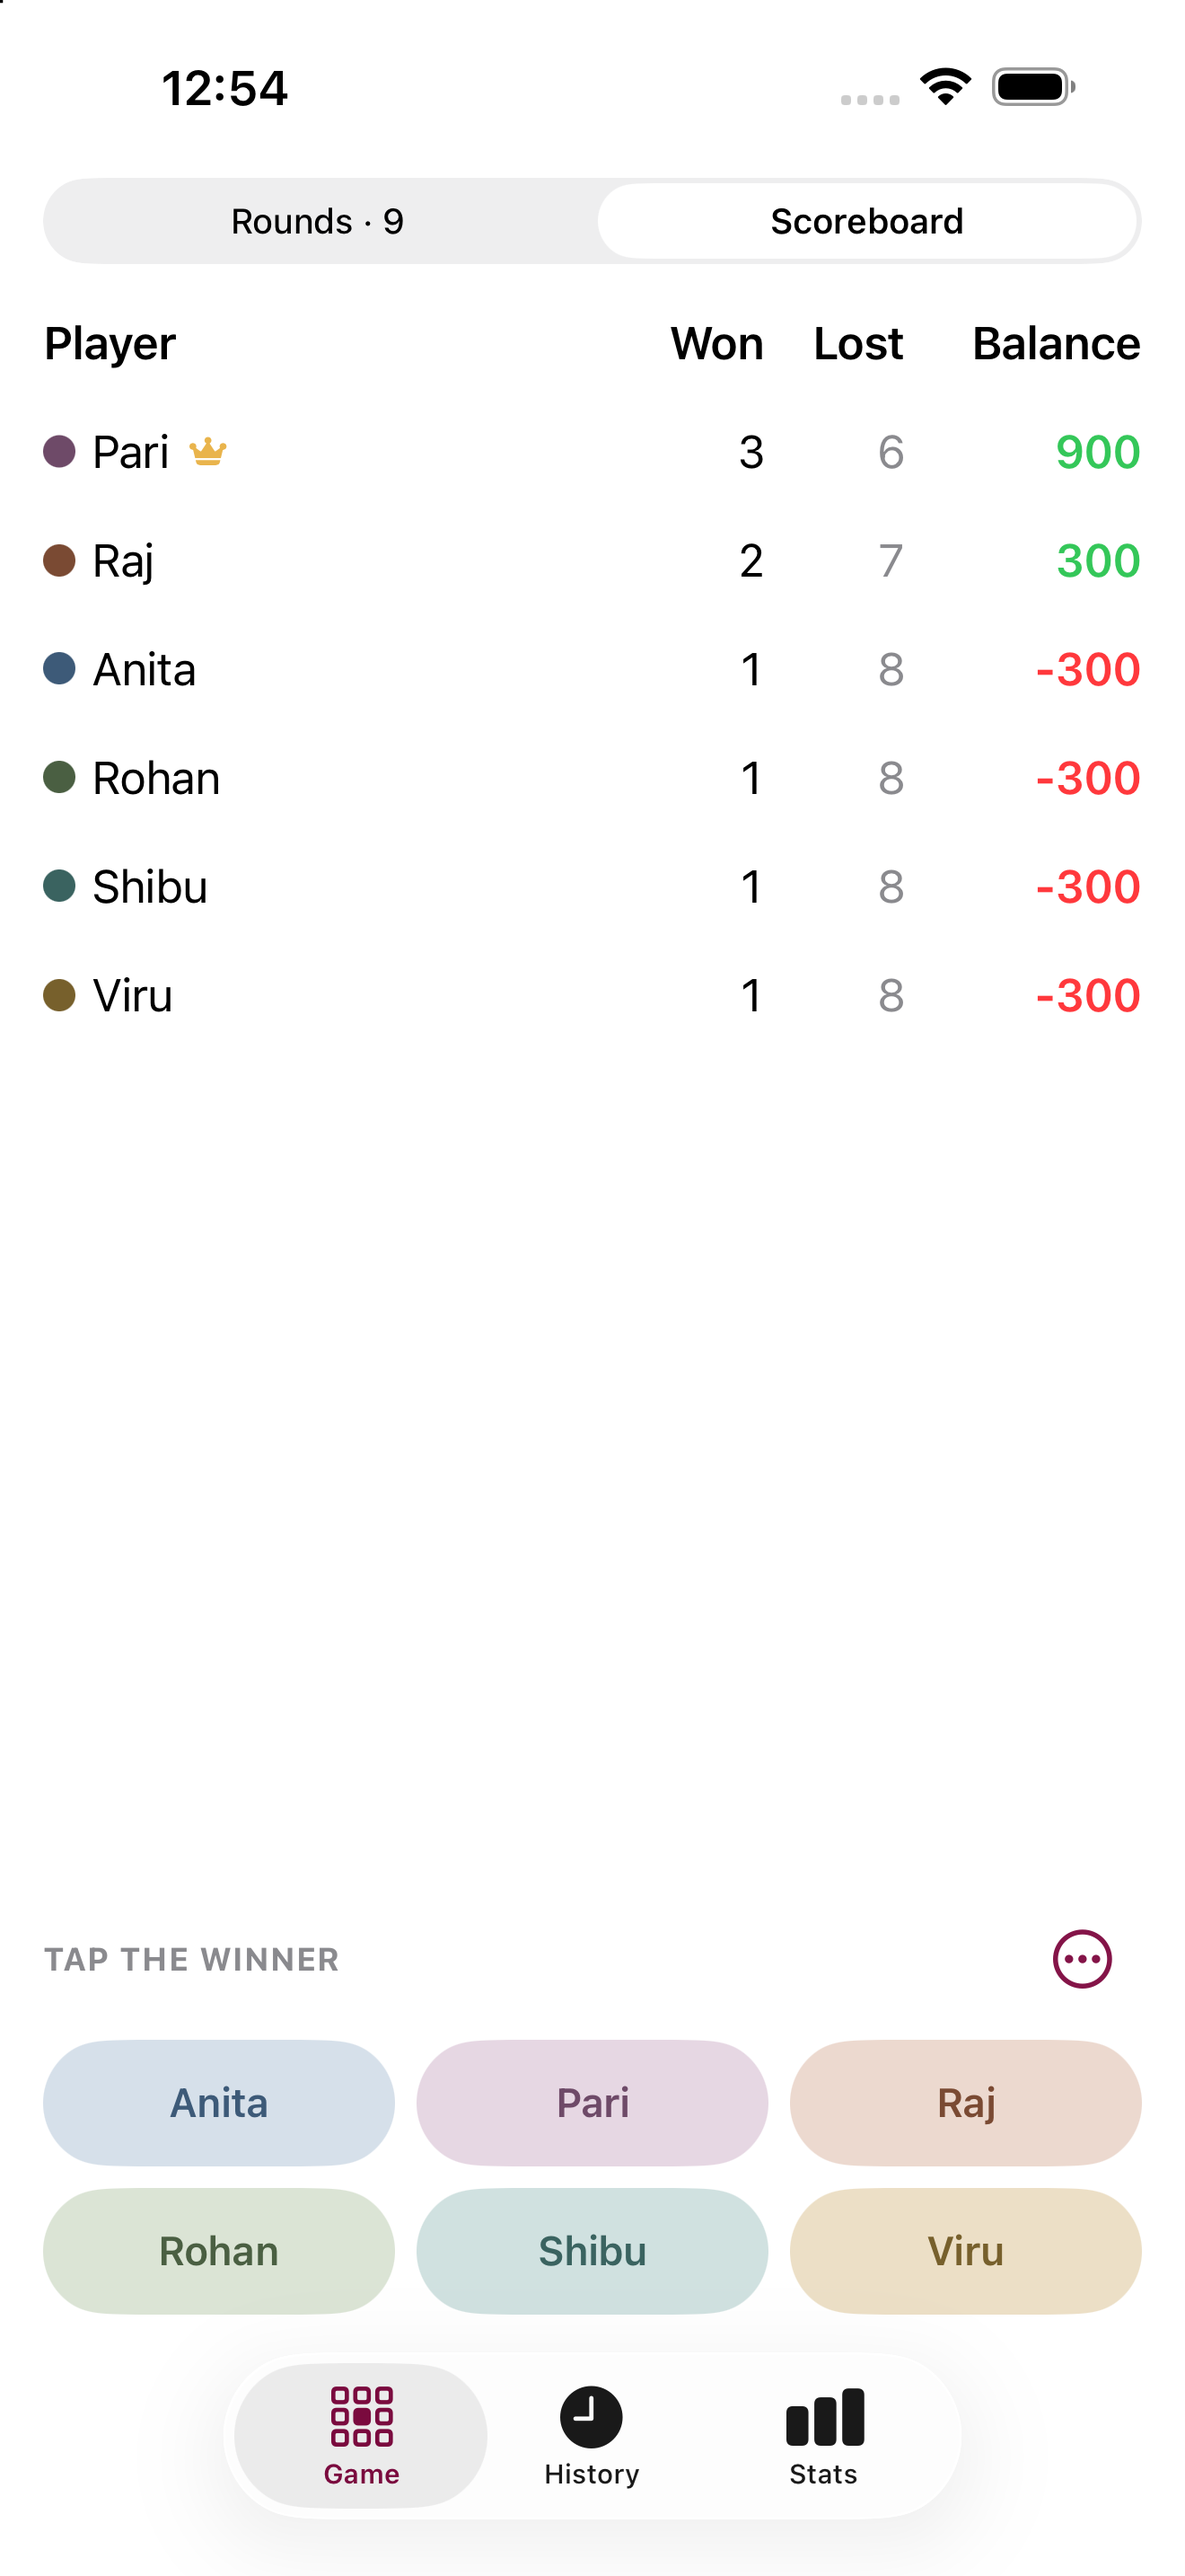
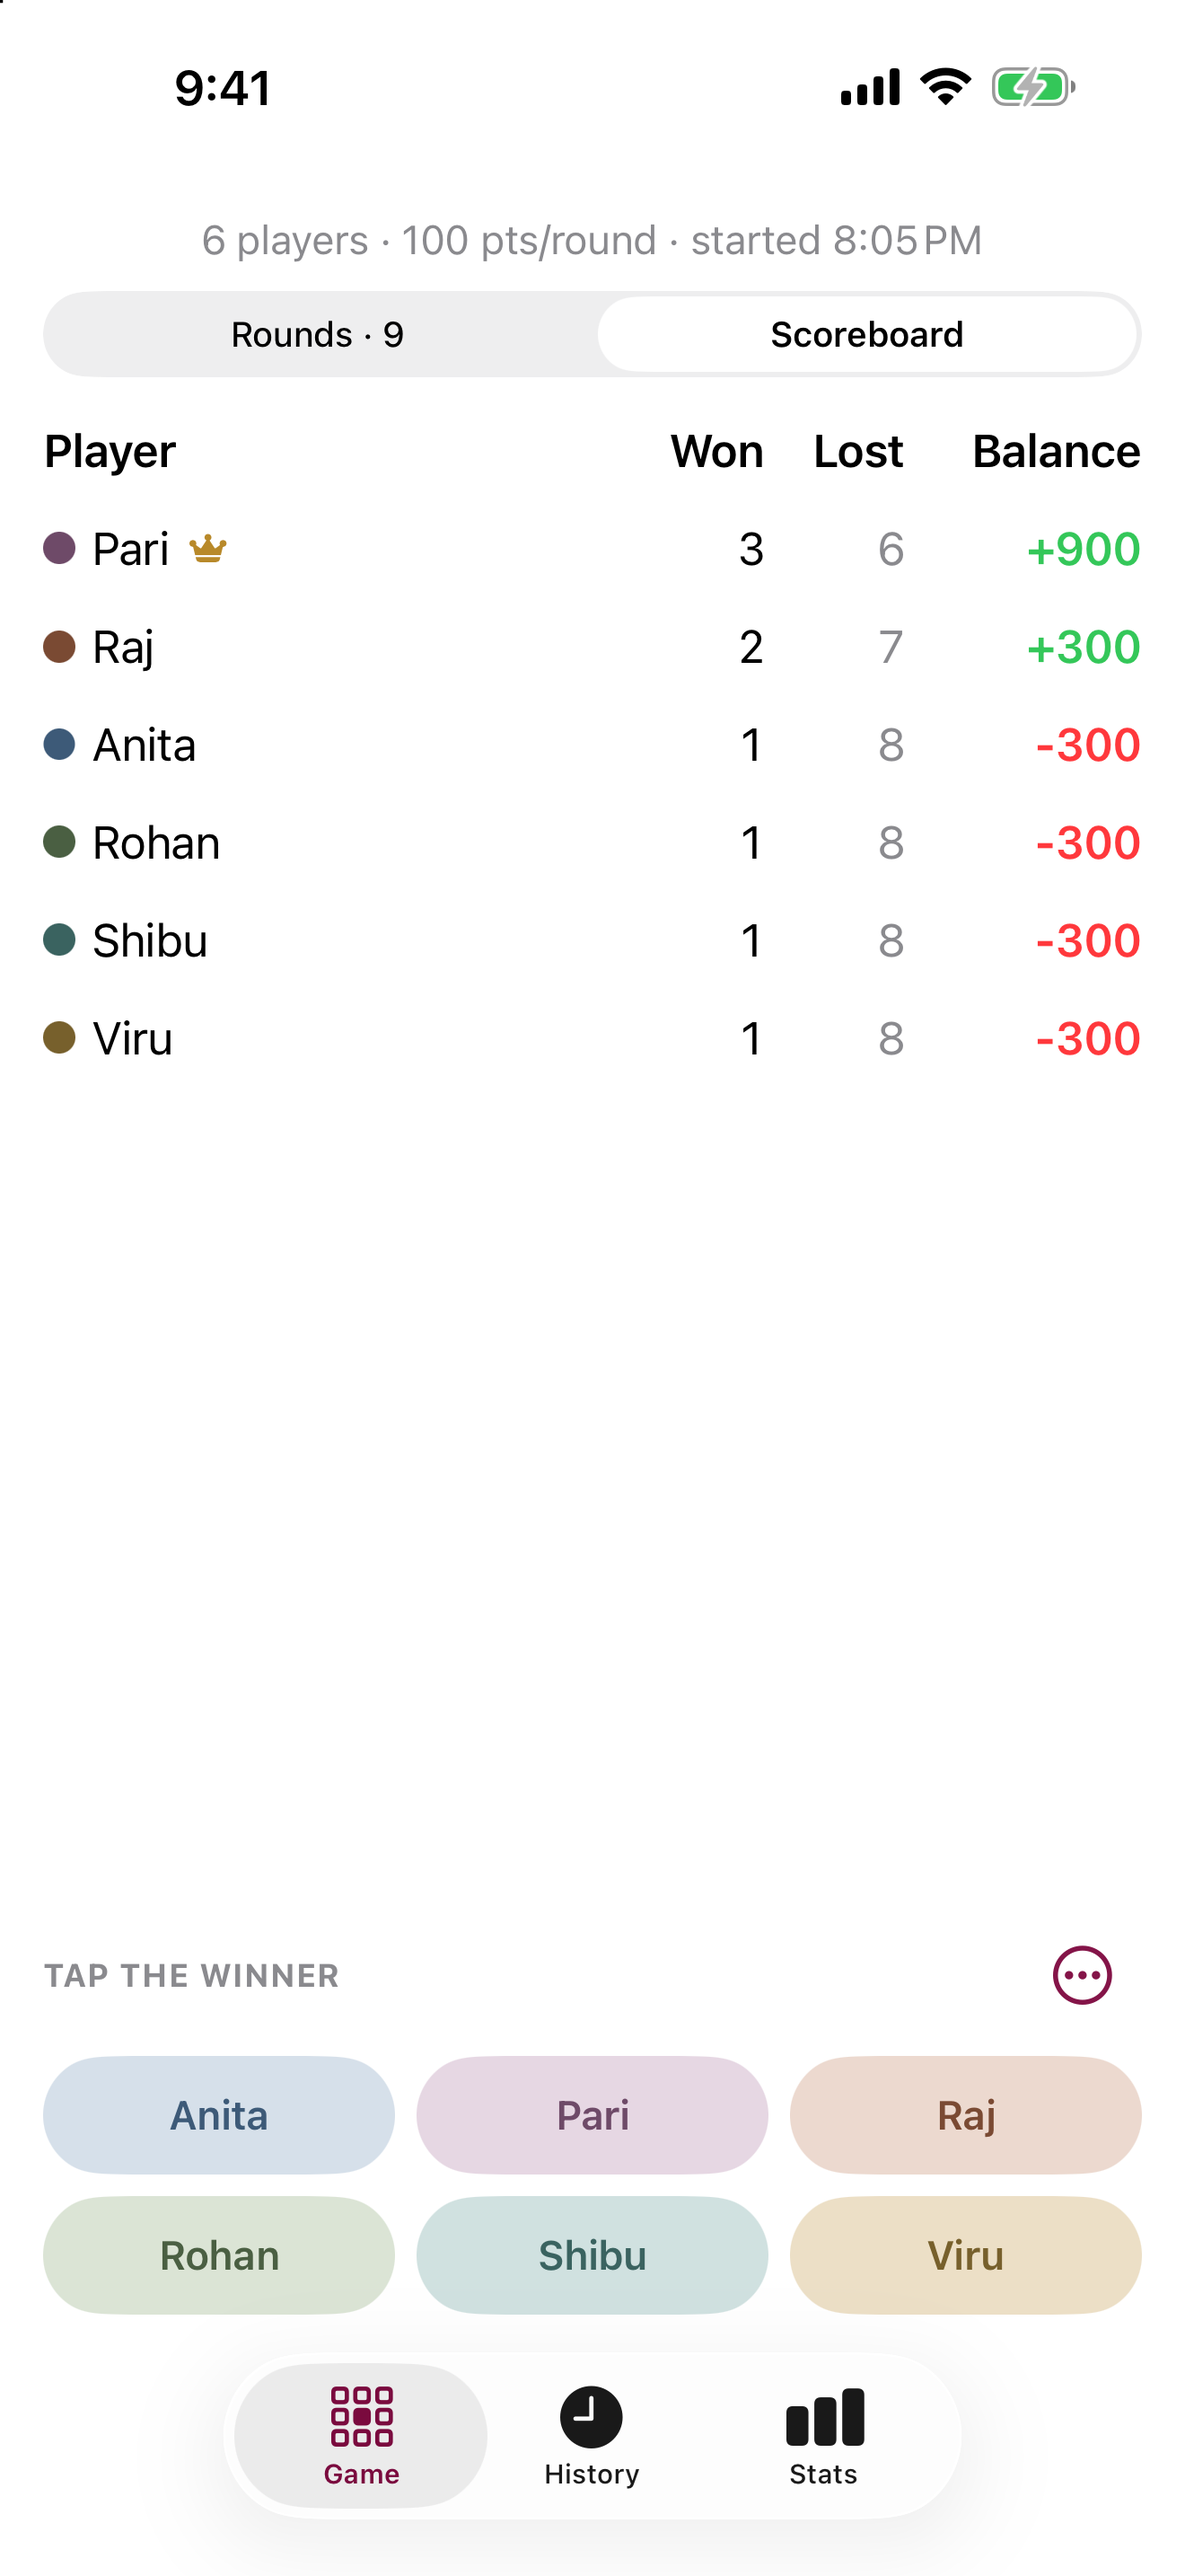
docs: refresh README and screenshots for 1.0.0

diff --git a/README.md b/README.md
@@ -23,23 +23,29 @@ Sikandar keeps score for table games where everyone antes and one person wins ea
 ## Features
 
 - **One-tap scoring** — tap the round winner's pill and the table updates. The winner gains `(players − 1) × points`, everyone else loses the round's points.
-- **Two views, one switch** — a segmented control flips between the round-by-round table (with cumulative balances per player) and a balance-sorted scoreboard with a crown on the leader.
-- **2 to 9 players** — winner pills lay out in balanced rows of at most three, so the bar stays tidy at any size. Long names shorten to their shortest unique prefix; names of 8 characters or fewer always show in full.
+- **Round feedback** — every tap gives a haptic and a brief "Round 9 · Pari wins" confirmation, and an accidental double-tap never records two rounds.
+- **Two views, one switch** — a segmented control flips between the round-by-round table (with cumulative balances per player) and a balance-sorted scoreboard with a crown on the leader. The live game always shows the player count, points per round and start time.
+- **2 to 9 players** — winner pills lay out in balanced rows of at most three, so the bar stays tidy at any size. Pills and settlements show full names; only the narrow table columns shorten long names to a unique prefix.
+- **Never lose a column** — when more players than fit are in the round table, a "2 more players ›" cue shows how many are off-screen; tap it to jump there.
 - **Player colors** — each player gets a muted identity color used consistently across the winner bar, table headers, and history.
-- **Deliberate game flow** — starting a game goes through a roster sheet (add, rename, select players; set points per round), and ending one shows the settlement before saving. No accidental taps.
-- **Minimal settlement** — game end computes the fewest transfers that square everyone up ("Sameer → Maitri 200").
-- **History** — every finished game is archived by date with its full scoreboard, settlement, and round table.
-- **Stats** — per-player games, wins, and net across Today / Week / Month / All Time.
+- **Deliberate game flow** — starting a game goes through a roster sheet (add, rename, select players; set points per round), and ending one shows the settlement before saving. No accidental taps. A game with no rounds can simply be discarded.
+- **Minimal settlement** — game end computes the fewest transfers that square everyone up ("Anita → Pari 300").
+- **History** — every finished game is archived by date with its duration, full scoreboard, settlement, and round table. Games can be deleted from History or the game screen.
+- **Stats** — per-player games, rounds played, wins, and net across Today / Week / Month / All Time.
 - **Undo** — the last round can be undone (with confirmation) at any point; balances are always recomputed from rounds, so totals can never drift.
+- **Dark Mode and larger text** — colors adapt to Dark Mode, and tables grow with the system text size.
+- **Your games are safe** — Sikandar never deletes your data when something goes wrong. If saved games can't be opened (for example, storage is full), it explains why and lets you retry; before any app update changes how data is stored, it keeps a backup.
 
 ## Building
 
-Open `Sikandar.xcodeproj` in Xcode and run. The app targets iOS (primary), with macOS and visionOS also enabled. No dependencies beyond SwiftUI and Core Data.
+Open `Sikandar.xcodeproj` in Xcode 26 or later and run the `Sikandar` scheme. The app targets iOS and iPadOS 18.2+. No dependencies beyond SwiftUI and Core Data.
 
 The data model (`Player`, `Game`, `GameRound`) lives in `Sikandar/Sikandar.xcdatamodeld`; all UI is in a single SwiftUI file, `Sikandar/sikandar-game-tracker-ui-flexible.swift`.
 
+Run the tests with **Product › Test** (⌘U). `SikandarTests/MigrationTests` opens a saved v1.0.0 store with the current data model and checks that nothing is lost. Run it after any change to the data model.
+
 ## Notes
 
-- Player roster is global; a player with recorded games cannot be deleted.
+- The player roster is global. A player with recorded games can be removed from the roster; their history and stats stay, and they can be restored from the New Game sheet.
 - The New Game sheet pre-selects the previous game's players and points.
 - Scores are abstract points with no currency — settle however your table likes.
